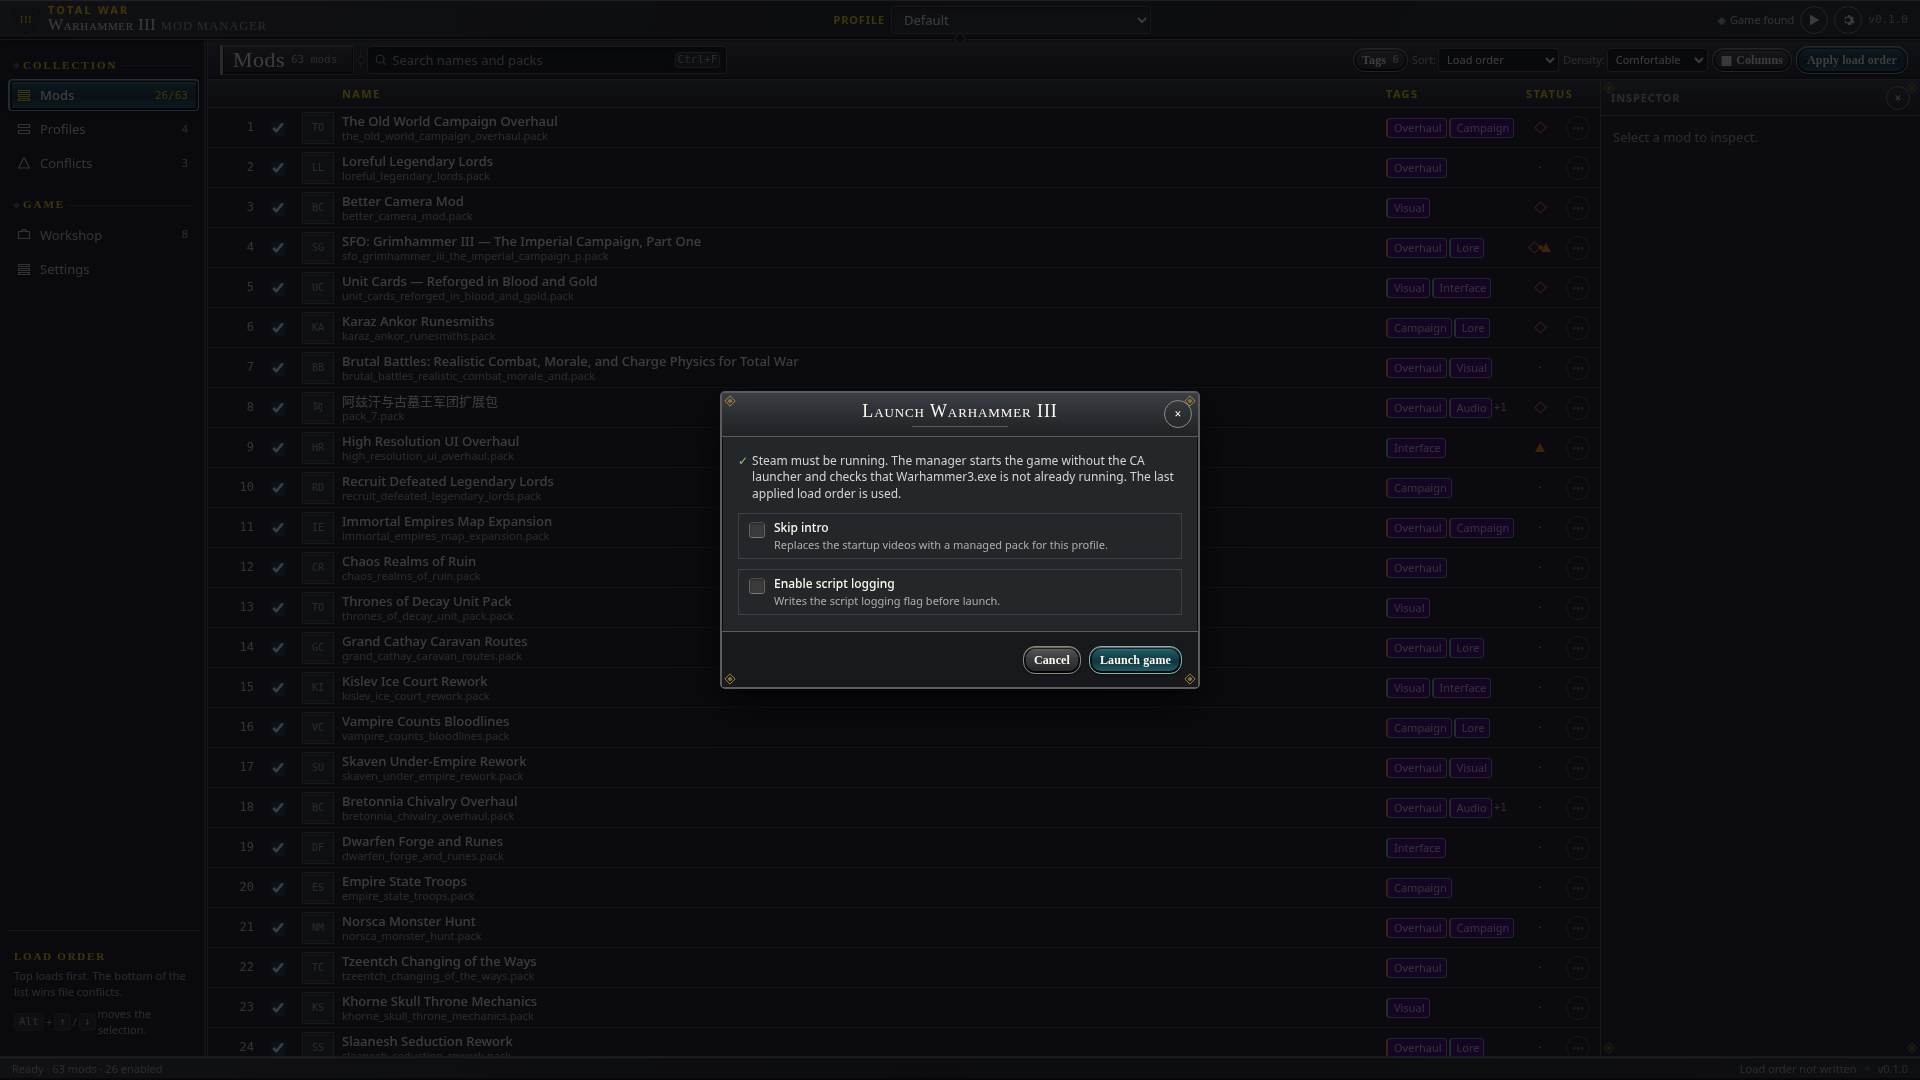
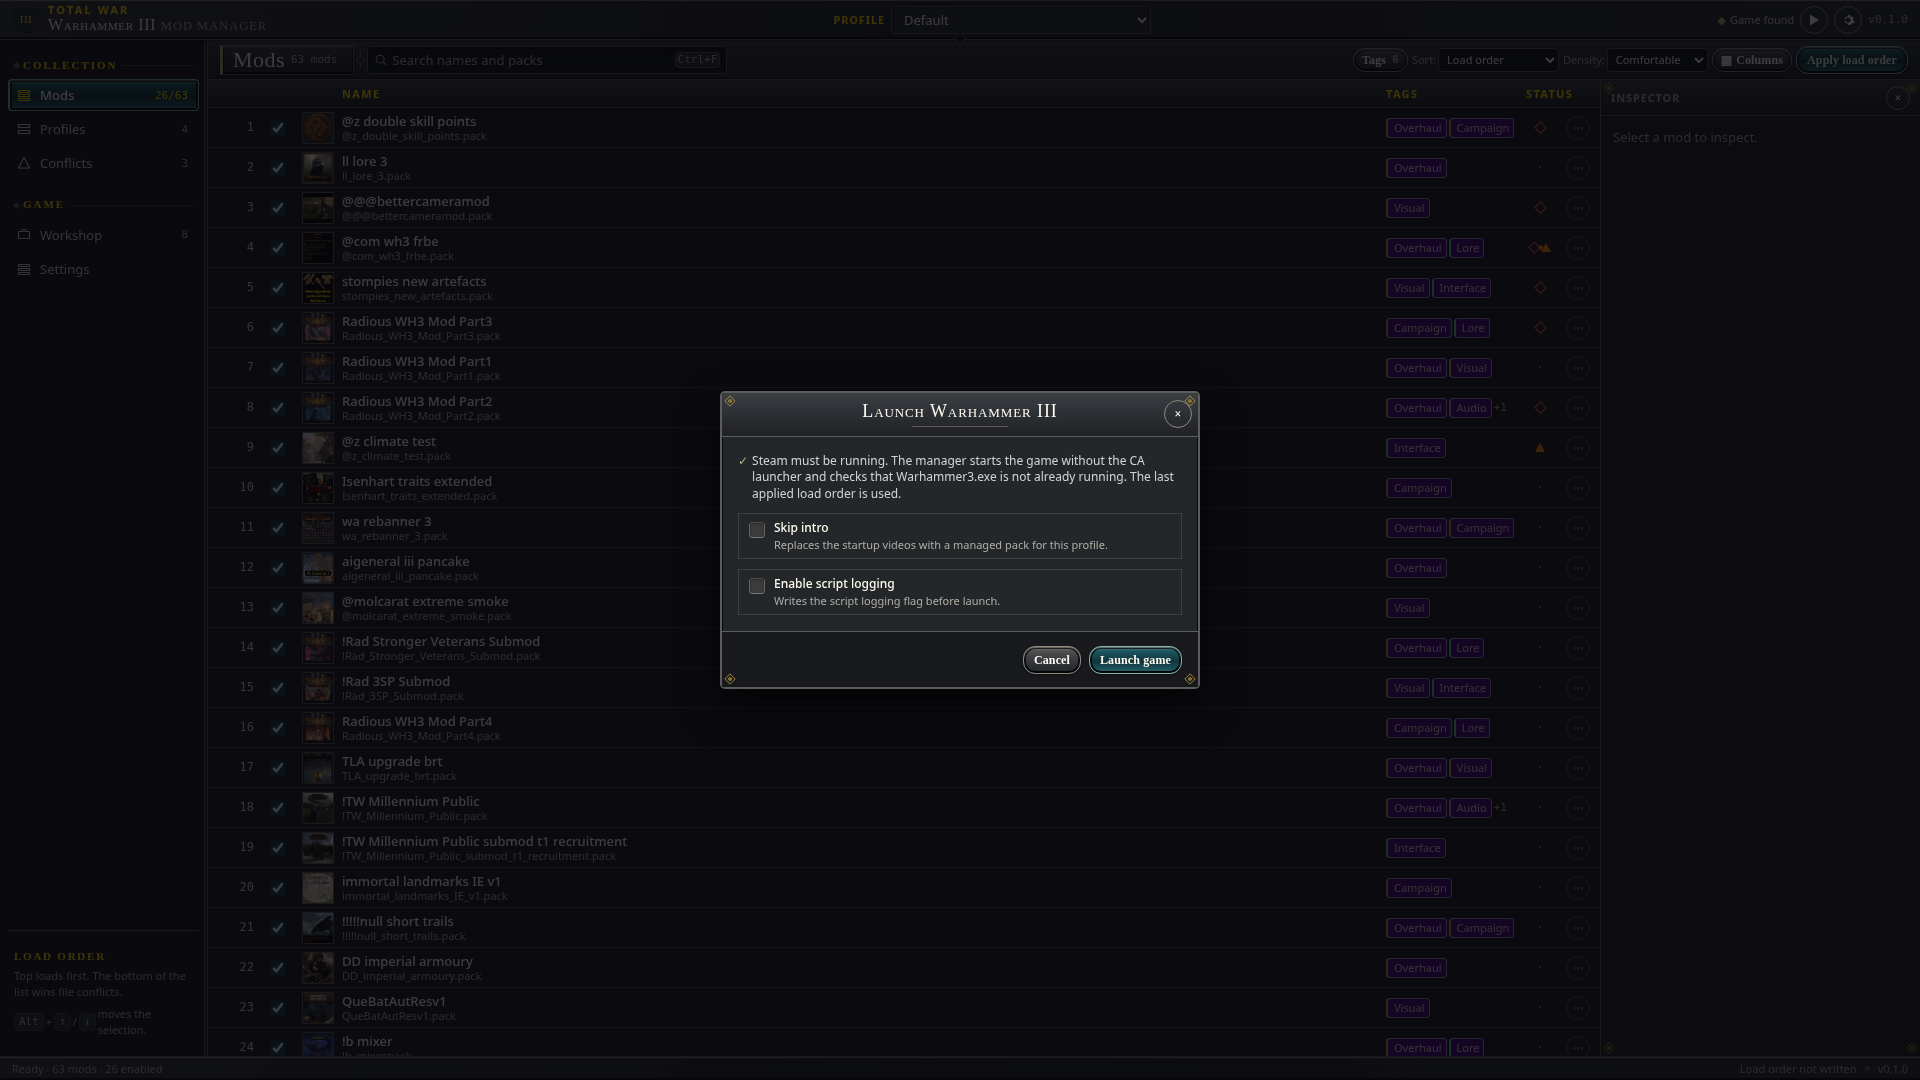
docs: show installed Workshop thumbnails in the README showcase

diff --git a/docs/screenshots/showcase/README.md b/docs/screenshots/showcase/README.md
@@ -2,9 +2,11 @@
 
 Captured from the current production frontend on 2026-10-24 after the dark
 Fiery Forge grey / blue-controls palette landed in main (`6ae9103`, PR #64).
-These are synthetic fixture-backed captures, not a real user's mod collection.
+Profiles, enabled states, tags, and conflict reports are simulated. The mod-list
+and launch captures include real installed Workshop pack names and artwork;
+these do not claim to reproduce a user's actual load order or conflict results.
 
-All five views use 1920×1080 and comfortable density. The capture harness
+All six views use 1920×1080 and comfortable density. The capture harness
 reported no horizontal or vertical page overflow (`scroll=1920x1080`).
 Mod-list captures have 23 visible rows and retain the 40/40/28/24 shell bands.
 
@@ -17,5 +19,8 @@ SHOT_ONLY=mods__selected-inspector__1920x1080__comfortable,profiles__active__192
 node scripts/qa/screenshots-m4.mjs
 ```
 
-The README uses these five captures. Historical WAR-10/WAR-147 evidence remains
+The README uses these six captures. Set `SHOT_WORKSHOP_DIR` to your installed
+`steamapps/workshop/content/1142710` directory to include local thumbnails in the
+mod-list/launch captures; omit it for the original deterministic fixtures.
+Source artwork is read locally and embedded only in the screenshots. Historical WAR-10/WAR-147 evidence remains
 in its original directories.

diff --git a/README.md b/README.md
@@ -222,13 +222,16 @@ For uninstall commands and configuration cleanup, see [the installation guide](d
 
 ## Showcase
 
-| Campaign profiles | Pack conflicts & dependencies |
+| Mod thumbnails & inspector | Workshop subscriptions |
 |---|---|
+| ![Mod thumbnails and inspector](docs/screenshots/showcase/mods__selected-inspector__1920x1080__comfortable.png) | ![Workshop subscriptions](docs/screenshots/showcase/workshop__subscribed__1920x1080__comfortable.png) |
+| **Campaign profiles** | **Pack conflicts & dependencies** |
 | ![Campaign profiles](docs/screenshots/showcase/profiles__active__1920x1080__comfortable.png) | ![Conflict report](docs/screenshots/showcase/conflicts__report__1920x1080__comfortable.png) |
 | **Launch options** | **Preferences & density** |
 | ![Launch options](docs/screenshots/showcase/launch__dialog__1920x1080__comfortable.png) | ![Settings](docs/screenshots/showcase/settings__general__1920x1080__comfortable.png) |
 
-Screenshots use the repository's synthetic QA fixtures. See the
+Screenshots use sample profiles and states. Mod-list captures include installed
+Workshop mod thumbnails to show how artwork appears in the app. See the
 [screenshot record](docs/screenshots/showcase/README.md) for capture details.
 
 ## Quick Start
